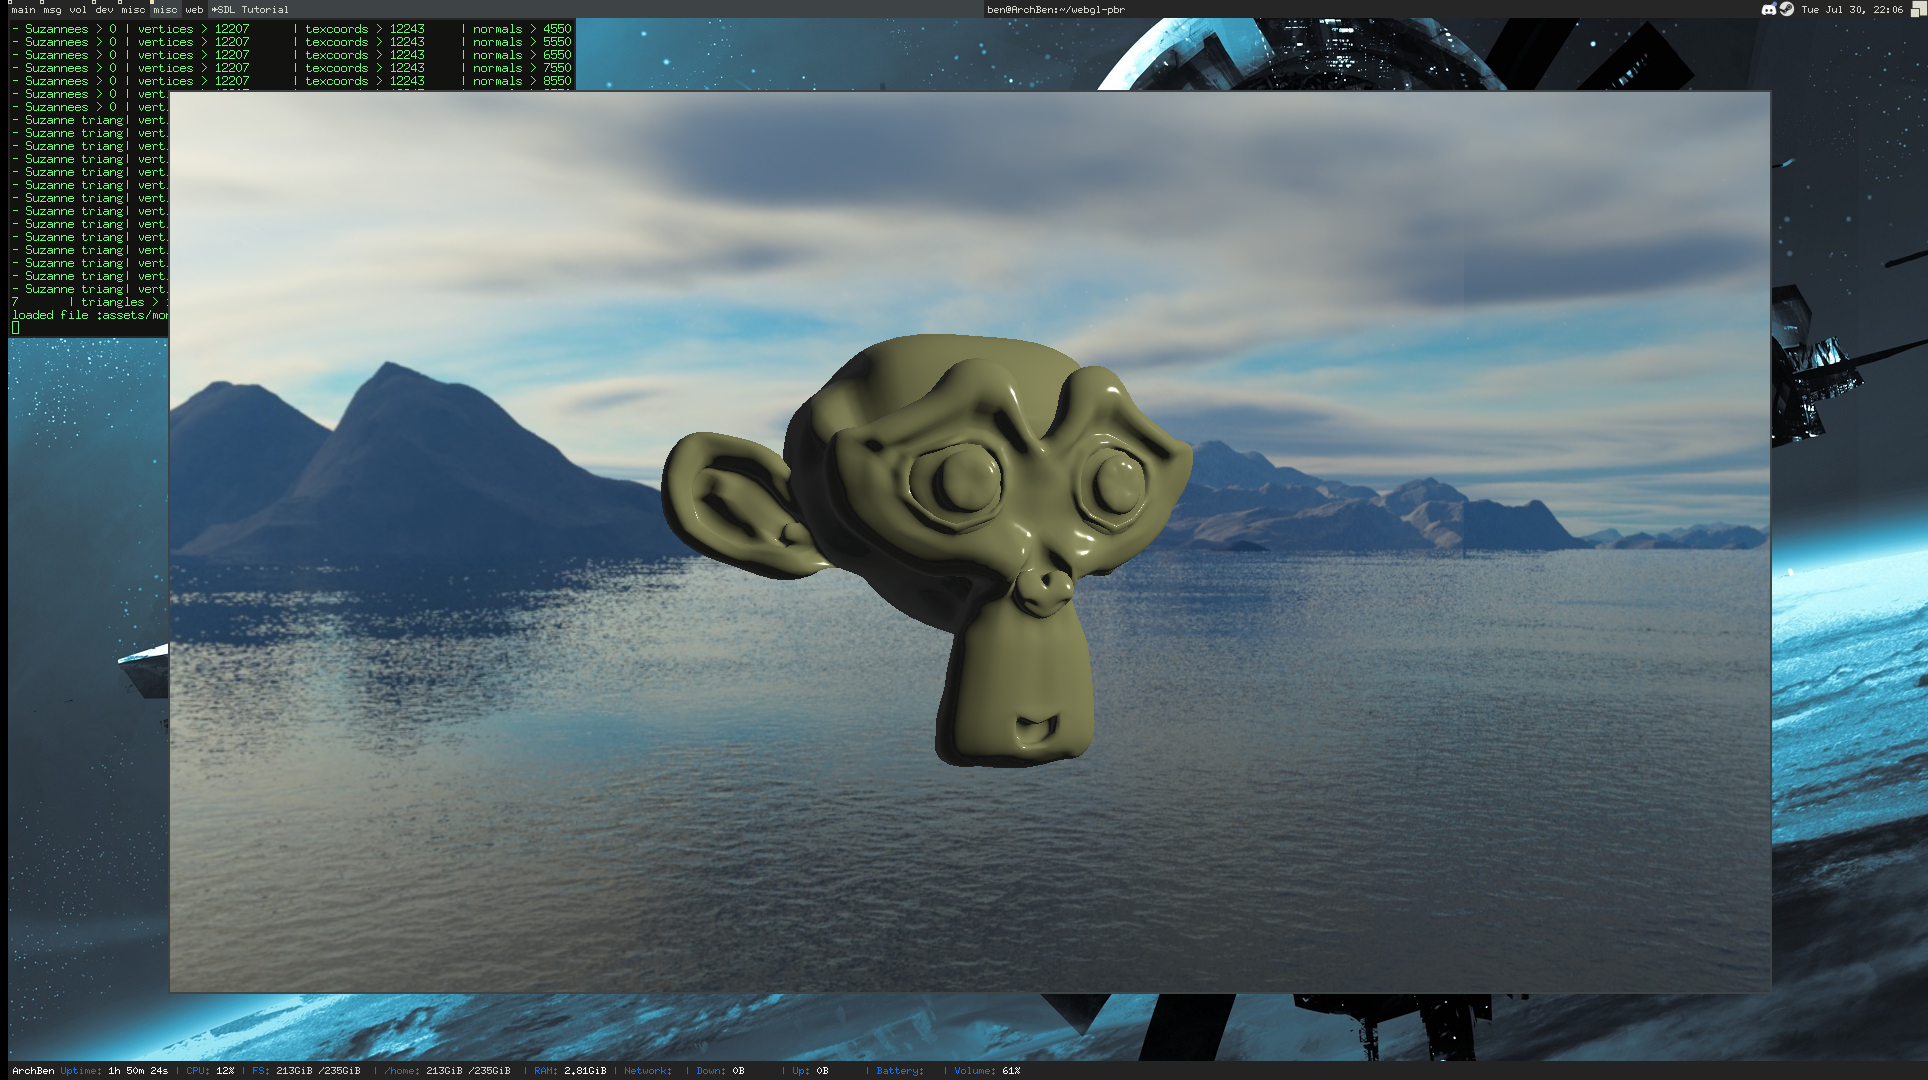
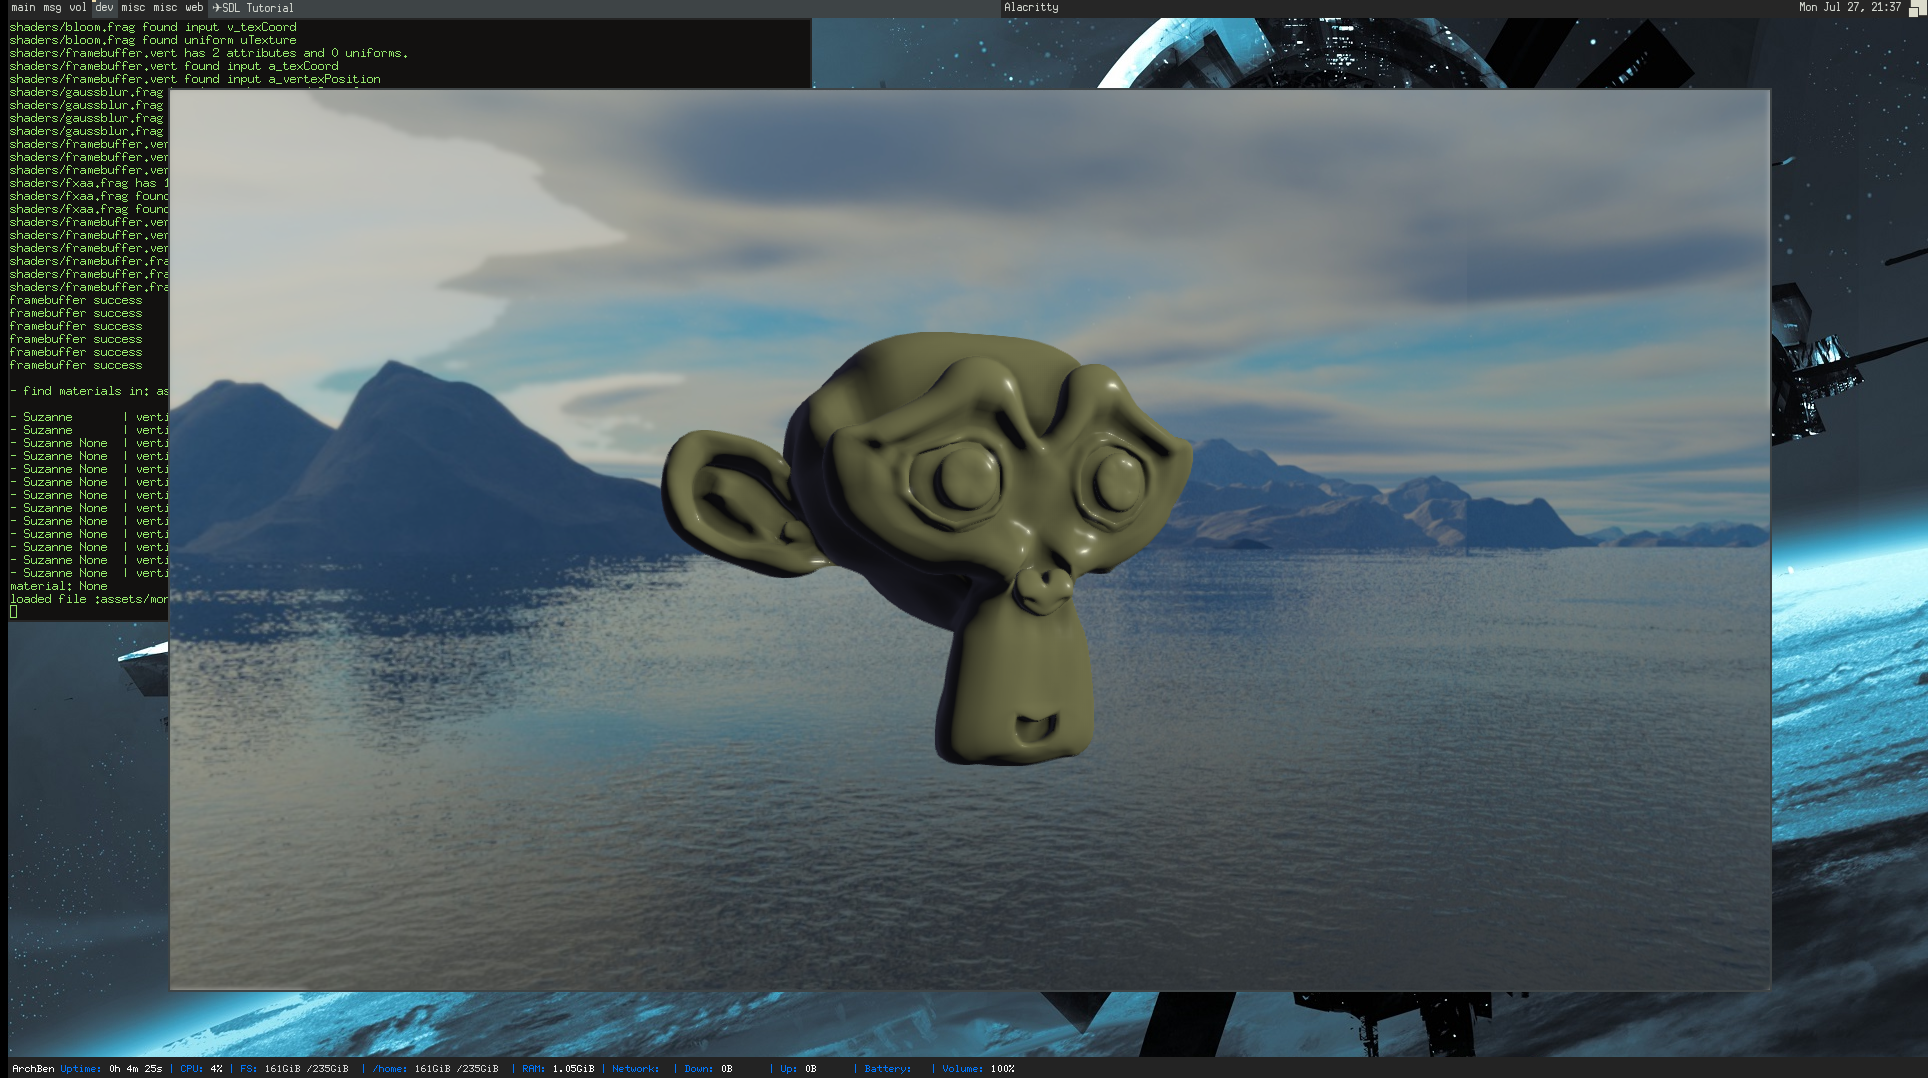
add fxaa and update readme

diff --git a/src/opengldriver/opengl/gbufferfbo.cpp b/src/opengldriver/opengl/gbufferfbo.cpp
@@ -8,7 +8,7 @@ using namespace std;
 void GBufferFBO::resize(int width, int height)
 {
     GLFramebuffer::resize(width, height);
-
+    
     glBindFramebuffer(GL_FRAMEBUFFER, m_framebuffer);
     glGenTextures(1, &m_depth);
     glBindTexture(GL_TEXTURE_2D, m_depth);
@@ -45,24 +45,13 @@ void GBufferFBO::resize(int width, int height)
     GLenum DrawBuffers[3] = { GL_COLOR_ATTACHMENT0, GL_COLOR_ATTACHMENT1, GL_COLOR_ATTACHMENT2 };
     glDrawBuffers(3, DrawBuffers); // 3 is the size of DrawBuffers
 
-    GLenum status = glCheckFramebufferStatus(GL_FRAMEBUFFER);
-    if (status != GL_FRAMEBUFFER_COMPLETE) {
-        if (status == GL_FRAMEBUFFER_INCOMPLETE_ATTACHMENT) {
-            cerr << "GL_FRAMEBUFFER: incomplete attachment error" << endl;
-        }
-        if (status == GL_FRAMEBUFFER_INCOMPLETE_MISSING_ATTACHMENT) {
-            cerr << "GL_FRAMEBUFFER: incomplete missing attachment" << endl;
-        }
-        cerr << "framebuffer error" << endl;
-    } else {
-        cerr << "framebuffer success" << endl;
-    }
+    checkStatus();
 }
 
 void GBufferFBO::createMultisampleBuffer(int width, int height)
 {
     GLFramebuffer::createMultisampleBuffer(width, height);
-    glBindFramebuffer(GL_FRAMEBUFFER, m_framebuffer);
+    glBindFramebuffer(GL_FRAMEBUFFER, m_multisampleFramebuffer);
 
     glGenTextures(1, &m_depth);
     glBindTexture(GL_TEXTURE_2D_MULTISAMPLE, m_depth);
@@ -94,4 +83,10 @@ void GBufferFBO::createMultisampleBuffer(int width, int height)
     glFramebufferTexture2D(GL_FRAMEBUFFER, GL_COLOR_ATTACHMENT0, GL_TEXTURE_2D_MULTISAMPLE, m_position, 0);
     glFramebufferTexture2D(GL_FRAMEBUFFER, GL_COLOR_ATTACHMENT1, GL_TEXTURE_2D_MULTISAMPLE, m_albedo, 0);
     glFramebufferTexture2D(GL_FRAMEBUFFER, GL_COLOR_ATTACHMENT2, GL_TEXTURE_2D_MULTISAMPLE, m_normals, 0);
+
+    // Set the list of draw buffers.
+    GLenum DrawBuffers[3] = { GL_COLOR_ATTACHMENT0, GL_COLOR_ATTACHMENT1, GL_COLOR_ATTACHMENT2 };
+    glDrawBuffers(3, DrawBuffers); // 3 is the size of DrawBuffers
+
+    checkStatus();
 }

diff --git a/src/opengldriver/rendermanager.cpp b/src/opengldriver/rendermanager.cpp
@@ -4,6 +4,7 @@
 #include "job/ambientocclusionjob.h"
 #include "job/bloomjob.h"
 #include "job/blurjob.h"
+#include "job/fxaajob.h"
 #include "job/directlightingjob.h"
 #include "job/framebufferjob.h"
 #include "job/gaussblurjob.h"
@@ -107,6 +108,9 @@ void RenderManager::initRenderPipelines()
     GaussBlurJob* gaussBlurJob = new GaussBlurJob;
     m_renderJobs[eRenderPasses::Blur] = gaussBlurJob;
 
+    FXAAJob* fxaaJob = new FXAAJob;
+    m_renderJobs[eRenderPasses::FXAA] = fxaaJob;
+
     Job* framebufferJob = new FramebufferJob;
     m_renderJobs[eRenderPasses::Framebuffer] = framebufferJob;
 
@@ -175,7 +179,9 @@ void RenderManager::render()
     static_cast<GaussBlurJob*>(m_renderJobs[eRenderPasses::Blur])->run(m_bloomFBO, m_blurFBO, 0.75);
     static_cast<GaussBlurJob*>(m_renderJobs[eRenderPasses::Blur])->run(m_bloomFBO, m_blurFBO, 1.25);
     static_cast<HDRJob*>(m_renderJobs[eRenderPasses::HDR])->run(m_resolveFBO, m_bloomFBO, m_framebufferFBO);
-    static_cast<FramebufferJob*>(m_renderJobs[eRenderPasses::Framebuffer])->run(m_framebufferFBO);
+
+    static_cast<FXAAJob*>(m_renderJobs[eRenderPasses::FXAA])->run(m_framebufferFBO, m_blurFBO);
+    static_cast<FramebufferJob*>(m_renderJobs[eRenderPasses::Framebuffer])->run(m_blurFBO);
 }
 
 void RenderManager::push(VertexBuffer* buf, eRenderPasses renderPass)

diff --git a/src/opengldriver/opengl/glframebuffer.cpp b/src/opengldriver/opengl/glframebuffer.cpp
@@ -1,6 +1,9 @@
 #include "glframebuffer.h"
 #include "util/debug.h"
 #include "util/util.h"
+#include <iostream>
+
+using namespace std;
 
 GLFramebuffer::GLFramebuffer()
     : m_framebuffer(0)
@@ -28,7 +31,6 @@ void GLFramebuffer::bind()
     glBindFramebuffer(GL_FRAMEBUFFER, m_framebuffer);
     GET_GL_ERROR("Error on binding FBO");
 }
-
 void GLFramebuffer::resolve()
 {
     ASSERT(m_multisampleFramebuffer != 0, "Multisample fbo not initialized");
@@ -49,6 +51,22 @@ void GLFramebuffer::clean()
         glDeleteFramebuffers(1, &m_multisampleFramebuffer);
         m_multisampleFramebuffer = 0;
     }
+}
+
+void GLFramebuffer::checkStatus()
+{
+    GLenum status = glCheckFramebufferStatus(GL_FRAMEBUFFER);
+    if (status != GL_FRAMEBUFFER_COMPLETE) {
+        if (status == GL_FRAMEBUFFER_INCOMPLETE_ATTACHMENT) {
+            cerr << "GL_FRAMEBUFFER: incomplete attachment error" << endl;
+        }
+        if (status == GL_FRAMEBUFFER_INCOMPLETE_MISSING_ATTACHMENT) {
+            cerr << "GL_FRAMEBUFFER: incomplete missing attachment" << endl;
+        }
+        cerr << "framebuffer error" << endl;
+    } else {
+        cerr << "framebuffer success" << endl;
+    }   
 }
 
 void GLFramebuffer::createMultisampleBuffer(int width, int height)

diff --git a/src/opengldriver/opengl/resolvefbo.cpp b/src/opengldriver/opengl/resolvefbo.cpp
@@ -20,25 +20,12 @@ void ResolveFBO::resize(int width, int height)
     glTexParameteri(GL_TEXTURE_2D, GL_TEXTURE_MAG_FILTER, GL_LINEAR);
     glTexParameteri(GL_TEXTURE_2D, GL_TEXTURE_MIN_FILTER, GL_LINEAR);
 
+    //need to get depth from gbufferjob
     glFramebufferTexture2D(GL_FRAMEBUFFER, GL_DEPTH_ATTACHMENT, GL_TEXTURE_2D, m_gbufferFBO->getDepth(), 0);
     glFramebufferTexture2D(GL_FRAMEBUFFER, GL_COLOR_ATTACHMENT0, GL_TEXTURE_2D, m_albedo, 0);
 
     GLenum DrawBuffers[1] = { GL_COLOR_ATTACHMENT0 };
     glDrawBuffers(1, DrawBuffers); // "1" is the size of DrawBuffers
 
-    //need to get depth from gbufferjob
-
-    GLenum status = glCheckFramebufferStatus(GL_FRAMEBUFFER);
-
-    if (status != GL_FRAMEBUFFER_COMPLETE) {
-        if (status == GL_FRAMEBUFFER_INCOMPLETE_ATTACHMENT) {
-            cerr << "GL_FRAMEBUFFER: incomplete attachment error" << endl;
-        }
-        if (status == GL_FRAMEBUFFER_INCOMPLETE_MISSING_ATTACHMENT) {
-            cerr << "GL_FRAMEBUFFER: incomplete missing attachment" << endl;
-        }
-        cerr << "framebuffer error" << endl;
-    } else {
-        cerr << "framebuffer success" << endl;
-    }
+    checkStatus();
 }

diff --git a/src/opengldriver/opengl/blitfbo.cpp b/src/opengldriver/opengl/blitfbo.cpp
@@ -22,19 +22,5 @@ void BlitFBO::resize(int width, int height)
     GLenum DrawBuffers[1] = { GL_COLOR_ATTACHMENT0 };
     glDrawBuffers(1, DrawBuffers); // "1" is the size of DrawBuffers
 
-    //need to get depth from gbufferjob
-
-    GLenum status = glCheckFramebufferStatus(GL_FRAMEBUFFER);
-
-    if (status != GL_FRAMEBUFFER_COMPLETE) {
-        if (status == GL_FRAMEBUFFER_INCOMPLETE_ATTACHMENT) {
-            cerr << "GL_FRAMEBUFFER: incomplete attachment error" << endl;
-        }
-        if (status == GL_FRAMEBUFFER_INCOMPLETE_MISSING_ATTACHMENT) {
-            cerr << "GL_FRAMEBUFFER: incomplete missing attachment" << endl;
-        }
-        cerr << "framebuffer error" << endl;
-    } else {
-        cerr << "framebuffer success" << endl;
-    }
+    checkStatus();
 }

diff --git a/src/opengldriver/job/fxaajob.cpp b/src/opengldriver/job/fxaajob.cpp
@@ -1,0 +1,29 @@
+#include "fxaajob.h"
+#include "util/debug.h"
+
+FXAAJob::FXAAJob()
+    : Job()
+{
+    setVertexShader("shaders/framebuffer.vert");
+    setFragmentShader("shaders/fxaa.frag");
+}
+
+FXAAJob::~FXAAJob()
+{
+}
+
+void FXAAJob::run(BlitFBO* inFbo, BlitFBO* outFbo)
+{
+    outFbo->bind();
+    m_pipeline->bindPipeline();
+
+    m_pipeline->setUniform(GLProgram::eShaderType::Fragment, "uTexture", 0);
+    GET_GL_ERROR("Error setting uniforms");
+    glActiveTexture(GL_TEXTURE0);
+    glBindTexture(GL_TEXTURE_2D, inFbo->getAlbedo());
+    GET_GL_ERROR("Error setting uniforms");
+
+    glClear(GL_COLOR_BUFFER_BIT | GL_DEPTH_BUFFER_BIT);
+
+    renderQuad();
+}

diff --git a/src/renderer/renderer.cpp b/src/renderer/renderer.cpp
@@ -19,8 +19,8 @@ Renderer::Renderer()
 
     SDL_GL_SetAttribute(SDL_GL_CONTEXT_MAJOR_VERSION, 3);
     SDL_GL_SetAttribute(SDL_GL_CONTEXT_MINOR_VERSION, 2);
-    SDL_GL_SetAttribute(SDL_GL_MULTISAMPLEBUFFERS, 1);
-    SDL_GL_SetAttribute(SDL_GL_MULTISAMPLESAMPLES, 16);
+    //SDL_GL_SetAttribute(SDL_GL_MULTISAMPLEBUFFERS, 1);
+    //SDL_GL_SetAttribute(SDL_GL_MULTISAMPLESAMPLES, 16);
     auto context = SDL_GL_CreateContext(m_window);
     if (!context)
         std::cerr << "failed to create opengl context" << std::endl;

diff --git a/src/opengldriver/job/fxaajob.h b/src/opengldriver/job/fxaajob.h
@@ -1,0 +1,15 @@
+#pragma once
+
+#include "job.h"
+#include "opengl/blitfbo.h"
+
+class FXAAJob : public Job {
+public:
+    FXAAJob();
+    ~FXAAJob();
+    void run(BlitFBO* inFBO, BlitFBO* outFBO);
+
+    eRenderPasses getJobType() override { return eRenderPasses::FXAA; }
+
+private:
+};

diff --git a/src/opengldriver/job/job.h b/src/opengldriver/job/job.h
@@ -23,8 +23,8 @@ enum class eRenderPasses : unsigned {
     Bloom = 8,
     HDR = 9,
     Blur = 10,
-
-    Framebuffer = 11,
+    FXAA=11,
+    Framebuffer = 12,
 };
 
 //0: vertex pos

diff --git a/src/opengldriver/opengl/glframebuffer.h b/src/opengldriver/opengl/glframebuffer.h
@@ -20,6 +20,7 @@ public:
 
 protected:
     virtual void createMultisampleBuffer(int width, int height);
+    void checkStatus();
     void clean();
     int m_width;
     int m_height;

diff --git a/src/opengldriver/opengl/resolvefbo.h b/src/opengldriver/opengl/resolvefbo.h
@@ -14,6 +14,7 @@ public:
     GLuint getDepth() const { return m_gbufferFBO->getDepth(); }
 
 protected:
+
     GLuint m_albedo;
     const GBufferFBO* m_gbufferFBO;
 };

diff --git a/README.md b/README.md
@@ -3,7 +3,17 @@ OpenGL Deferrred Renderer
 
 Deferred, physically based renderer implemented in OpenGL.
 
-Implements a Cook Torrance Shader with Lambertian Diffuse.
+Implements a Cook Torrance Shader with Lambertian Diffuse, as well as SSAO, Bloom, and FXAA
 
+## Passes
+GBuffer
+SSAO
+ - Blur
+Direct Lighting
+Skybox
+Bloom
+HDR
+FXAA
 
 ![Alt text](screen.png?raw=true "Optional Title")
+![Alt text](screen2.png?raw=true "Optional Title")
